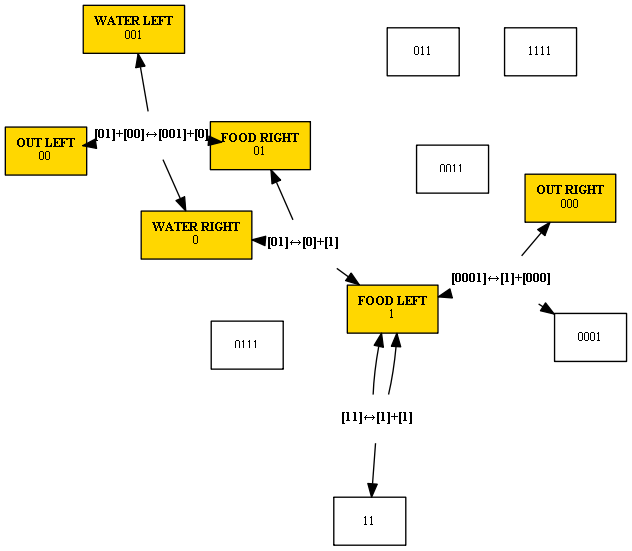
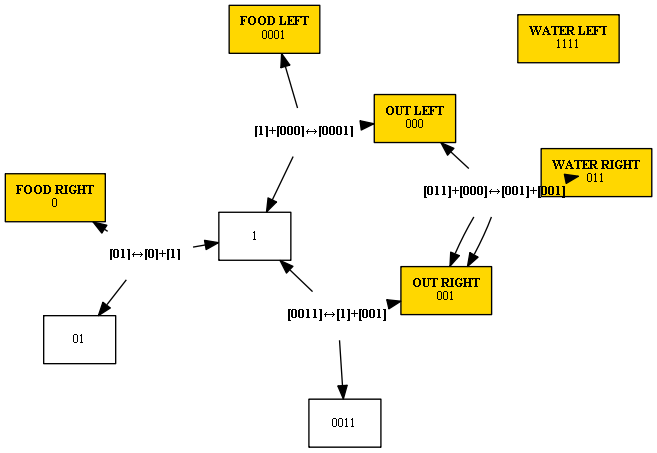
no battery checkpoint

diff --git a/diem/Animat.py b/diem/Animat.py
@@ -6,39 +6,6 @@ from Network import Network
 from graphviz import Digraph
 from globals import DT
 
-def find_nearest(animat, env):
-  for type in EnvObjectTypes:
-    min_dsq = math.inf
-    for object in env.objects[type.value]:
-      dsq = (animat.x - object.x)**2 + (animat.y - object.y)**2
-      if (dsq < min_dsq):
-        min_dsq = dsq
-        animat.dsq[type.value] = dsq
-        animat.nearest[type.value] = object
-
-def get_sens_reading(obj_x, obj_y, sens_x, sens_y, sens_orient):
-
-  # larger falloff means farther sight
-  falloff = 0.25
-
-  d_sq = (sens_x - obj_x)**2 + (sens_y - obj_y)**2
-
-  omni = falloff/(falloff + d_sq) # (0,1)
-  
-  # sensor to object vector
-  s2o = [obj_x - sens_x, 
-        obj_y - sens_y]
-  s2o_mag = np.sqrt(d_sq)
-  # normalise
-  if s2o_mag > 0:
-    s2o = [v / s2o_mag for v in s2o]
-  # sensor direction unit vector
-  sens_uv = [math.cos(sens_orient),
-              math.sin(sens_orient)]
-
-  # positive component of sensor to object projection on sensor direction
-  return omni * max(0.0, s2o[0]*sens_uv[0] + s2o[1]*sens_uv[1])
-
 class Animat:
 
   FULL_BATTERY = 1
@@ -52,14 +19,17 @@ class Animat:
       self.controller = Network()
     else:
       self.controller = controller
-    self.nearest = [None for _ in EnvObjectTypes]
     self.dsq = [None for _ in EnvObjectTypes]
     self.motor_hist = [[] for _ in Sides]
-    self.sens_hist = [[[] for _ in ConsumableTypes] for _ in Sides]
+    self.consumption_hist = [[] for _ in ConsumableTypes]
     self.encountered = []
+    self.chemical_hist = [sum(chem.conc for chem in self.controller.chemicals)]
     self.dx = None
     self.dy = None
     self.dtheta = None
+
+    self.energy = sum(chem.conc * chem.potential for chem in self.controller.chemicals)
+    self.energy_hist = [self.energy]
 
     # self.x = np.random.random()
     # self.y = np.random.random()
@@ -70,35 +40,23 @@ class Animat:
     self.y_hist = [self.y]
     self.theta = math.pi * 5 / 8
 
-    self.battery = [Animat.FULL_BATTERY for _ in ConsumableTypes]
-    self.battery_hist = [[battery] for battery in self.battery]
     self.fitness = 0
     self.alive = True
 
 
   def __eq__(self, other) :
-    return self.controller == other.controller and np.array_equal(self.nearest, other.nearest) and np.array_equal(self.dsq, other.dsq) and self.dx == other.dx and self.dy == other.dy and self.dtheta == other.dtheta
+    return self.controller == other.controller and np.array_equal(self.dsq, other.dsq) and self.dx == other.dx and self.dy == other.dy and self.dtheta == other.dtheta
 
 
   def prepare(self, env):
-    # store closest object of each type
-    find_nearest(self, env)
-    readings = np.zeros((len(Sides), len(EnvObjectTypes)))
-    # sensor readings
-    for side in Sides:
-      # sensor properties
-      sens_orient = self.theta + self.SENSOR_ANGLES[side.value]
-      sens_x = self.x + self.RADIUS * math.cos(sens_orient)
-      sens_y = self.y + self.RADIUS * math.sin(sens_orient)
-      # calculate reading for each sensor
-      for type in EnvObjectTypes:
-        obj_x = self.nearest[type.value].x
-        obj_y = self.nearest[type.value].y
-        reading = get_sens_reading(obj_x, obj_y, sens_x, sens_y, sens_orient)
-        readings[side.value][type.value] = reading
-        self.sens_hist[side.value][type.value].append(reading)
-    # get chemical outputs
-    left_out, right_out = self.controller.get_outputs(readings)
+    consumptions = np.zeros(len(EnvObjectTypes))
+
+    for objType in EnvObjectTypes:
+      for obj in env.objects[objType.value]:
+        consumptions[objType.value] += ((obj.x - self.x)**2 + (obj.y - self.y)**2)**(1/2)
+      self.consumption_hist[objType.value].append(consumptions[objType.value])
+
+    left_out, right_out = self.controller.get_outputs(consumptions)
     
     # set motor state
     left_motor_state = left_out
@@ -112,42 +70,28 @@ class Animat:
     self.dtheta = (right_motor_state - left_motor_state) / Animat.RADIUS
 
 
-  def update(self, env, i):
+  def update(self):
     # update position and orientation
     self.x += self.dx * DT
     self.x_hist.append(self.x)
     self.y += self.dy * DT
     self.y_hist.append(self.y)
     self.theta += self.dtheta * DT
-    # check if encountered any objects
-    encountered = False
-    for type in EnvObjectTypes:
-      if self.dsq[type.value] <= Animat.RADIUS ** 2:
-        encountered = copy.deepcopy(self.nearest[type.value])
-        env.consumed.append(encountered)
-        self.nearest[type.value].reset()
-        if any(encountered.type == type.name for type in ConsumableTypes):
-          self.battery[type.value] = Animat.FULL_BATTERY
-          self.encountered.append({'time': i, 'type': type.value})
-        else:
-          self.battery = [0, 0]
-      else:
-        self.battery[type.value] = max(0.0, self.battery[type.value] - Animat.DRAIN_RATE*DT)
-    # update battery and env
-    self.fitness += np.prod(self.battery) * DT * 10
-    for type in ConsumableTypes:
-      self.battery_hist[type.value].append(self.battery[type.value])
 
-    # TODO toggle dual battery
-    if any(b <= 0 for b in self.battery):
-    # if sum(self.battery) <= 0:
+    self.energy = sum([chem.conc * chem.potential for chem in self.controller.chemicals])
+    self.energy_hist.append(self.energy)
+    self.chemical_hist.append(sum([chem.conc for chem in self.controller.chemicals]))
+
+    self.fitness += self.energy * DT
+
+    if self.energy <= 0:
       self.alive = False
 
 
   def evaluate(self, env):
-    for i in range(math.floor(Animat.MAX_LIFE / DT)):
+    for _ in range(math.floor(Animat.MAX_LIFE / DT)):
       self.prepare(env)
-      self.update(env, i)
+      self.update()
       if not self.alive:
         break
 
@@ -183,55 +127,43 @@ def test_animat_trial(env, controller=None, show=True, save=False, fname=''):
     animat = Animat(controller)
   animat.evaluate(env)
 
-  type_colors = ['g', 'b', 'r']
-  sens_motor_subs = plt.figure(constrained_layout=True, figsize=(9,6)).subplots(2, 1)
-  sens_motor_subs[0].set_title('Left')
-  sens_motor_subs[1].set_title('Right')
-  for side in Sides:
-    for type in EnvObjectTypes:
-      sens_motor_subs[side.value].plot(animat.sens_hist[side.value][type.value], '--', label=f'{type.name} SENSOR', color=type_colors[type.value])
-    sens_motor_subs[side.value].plot(animat.motor_hist[side.value], label=f'MOTOR', color='grey')
-  for encounter in animat.encountered:
-    for side in Sides:
-      sens_motor_subs[side.value].axvline(x=encounter['time'], color=type_colors[encounter['type']], linestyle=':')
-      sens_motor_subs[side.value].legend()
+  # type_colors = ['g', 'b', 'r']
+  # sens_motor_subs = plt.figure(constrained_layout=True, figsize=(9,6)).subplots(2, 1)
+  # sens_motor_subs[0].set_title('Left')
+  # sens_motor_subs[1].set_title('Right')
+  # for side in Sides:
+  #   sens_motor_subs[side.value].plot(animat.motor_hist[side.value], label=f'MOTOR', color='grey')
+  # for encounter in animat.encountered:
+  #   for side in Sides:
+  #     sens_motor_subs[side.value].axvline(x=encounter['time'], color=type_colors[encounter['type']], linestyle=':')
+  #     sens_motor_subs[side.value].legend()
 
-  if save:
-    plt.savefig(f'plot-sensorimotors_{fname}')
+  # if save:
+  #   plt.savefig(f'plot-sensorimotors_{fname}')
 
   chem_colors = ['darkorange','navajowhite','darkgreen','limegreen','darkblue','blue']
-  chem_labels = ['Out L','Out R','Food L','Food R']
+  chem_labels = ['Out L','Out R','Food','Water']
   chem = plt.figure(constrained_layout=True, figsize=(12,6)).subplots(2, 1)
   chem[0].set_title('Chemical concentrations')
   chem[1].set_title('Energy')
-  total_chem = np.zeros(len(animat.controller.chemicals[0].hist))
-  total_energy = np.zeros(len(animat.controller.chemicals[0].hist))
   for (i, chemical) in enumerate(animat.controller.chemicals):
-    hist = chemical.hist
-    energy = np.array(hist) * chemical.potential
+    energy = np.array(chemical.hist) * chemical.potential
     if i < len(chem_labels):
       kwargs = { 'label': f'{chem_labels[i]} ({chemical.formula})', 'c': chem_colors[i], 'alpha': 0.75, 'zorder': 1 }
     else: 
       kwargs = { 'ls': ':', 'label': 'Other', 'c': 'black', 'alpha': 0.2, 'zorder': 0 }
-    chem[0].plot(hist, **kwargs)
+    chem[0].plot(chemical.hist, **kwargs)
     chem[1].plot(energy, **kwargs)
-    total_chem += hist
-    total_energy += energy
 
-  for type in EnvObjectTypes:
-    for side in Sides:
-      input_chem = animat.controller.chemicals[getattr(Network, f'{type.name}_{side.name}')]
-      total_chem -= input_chem.hist
-      total_energy -= np.array(input_chem.hist) * input_chem.potential
 
   chem[0].set_ylabel('Chemical concs')
   total_chem_plot = chem[0].twinx()
-  total_chem_plot.plot(total_chem, c='darkviolet')
+  total_chem_plot.plot(animat.chemical_hist, c='darkviolet')
   total_chem_plot.set_ylabel('Total concs', color='darkviolet')  
 
   chem[1].set_ylabel('Energy')
   total_energy_plot = chem[1].twinx()
-  total_energy_plot.plot(total_energy, c='darkviolet')
+  total_energy_plot.plot(animat.energy_hist, c='darkviolet')
   total_energy_plot.set_ylabel('Total energy', color='darkviolet')
 
   handles, labels = chem[0].get_legend_handles_labels()
@@ -255,9 +187,17 @@ def test_animat_trial(env, controller=None, show=True, save=False, fname=''):
   lifetime[0].add_patch(plt.Circle((animat.x, animat.y), Animat.RADIUS, color='black'))
   env.plot(lifetime[0])
 
-  lifetime[1].set_title('Battery')
-  for type in ConsumableTypes:
-    lifetime[1].plot(animat.battery_hist[type.value], color=type_colors[type.value])
+  type_colors = ['g', 'b', 'r']
+  motor_subs = lifetime[1].subplots(2,1)
+  motor_subs[0].set_title('Left')
+  motor_subs[1].set_title('Right')
+  for side in Sides:
+    motor_subs[side.value].plot(animat.motor_hist[side.value], label=f'MOTOR', color='grey')
+  for encounter in animat.encountered:
+    for side in Sides:
+      motor_subs[side.value].axvline(x=encounter['time'], color=type_colors[encounter['type']], linestyle=':')
+      motor_subs[side.value].legend()
+  
 
   if save:
     plt.savefig(f'plot-lifetime_{fname}')

diff --git a/diem/Network.py b/diem/Network.py
@@ -53,7 +53,7 @@ class Chemical:
     return self.formula
 
   def __str__(self):
-    return self.formula    
+    return self.formula
 
   def prep_update(self, reading = None):
     self.dconc = -self.decay * self.conc
@@ -131,10 +131,8 @@ class Network:
 
   OUTPUT_LEFT = 0
   OUTPUT_RIGHT = 1
-  FOOD_LEFT = 2
-  FOOD_RIGHT = 3
-  WATER_LEFT = 4
-  WATER_RIGHT = 5
+  FOOD = 2
+  WATER = 3
 
   def __init__(self):
     self.chemicals = []
@@ -213,16 +211,14 @@ class Network:
       self.reactions.append(Reaction(lhs, np.array(rhs)))
     return 
   
-  def get_outputs(self, readings):
+  def get_outputs(self, consumptions):
     # set decay
     for chemical in self.chemicals:
       chemical.prep_update()
 
-    # TODO uncomment if using natural dconc for inputs
-    # add sensor inputs
-    # for type in EnvObjectTypes:
-    #   for side in Sides:
-    #     self.chemicals[getattr(Network, f'{type.name}_{side.name}')].prep_update(readings[side.value][type.value])
+    # add consumptions
+    for type in EnvObjectTypes:
+      self.chemicals[getattr(Network, f'{type.name}')].prep_update(consumptions[type.value])
 
     # set reaction changes
     for reaction in self.reactions:
@@ -230,13 +226,6 @@ class Network:
     # update chemicals
     for chemical in self.chemicals:
       chemical.update()
-    
-    # TODO uncomment if using natural dconc for inputs
-    for type in EnvObjectTypes:
-      for side in Sides:
-        self.chemicals[getattr(Network, f'{type.name}_{side.name}')].conc = readings[side.value][type.value] * 2
-    
-
     
     return self.chemicals[Network.OUTPUT_LEFT].conc, self.chemicals[Network.OUTPUT_RIGHT].conc
 
